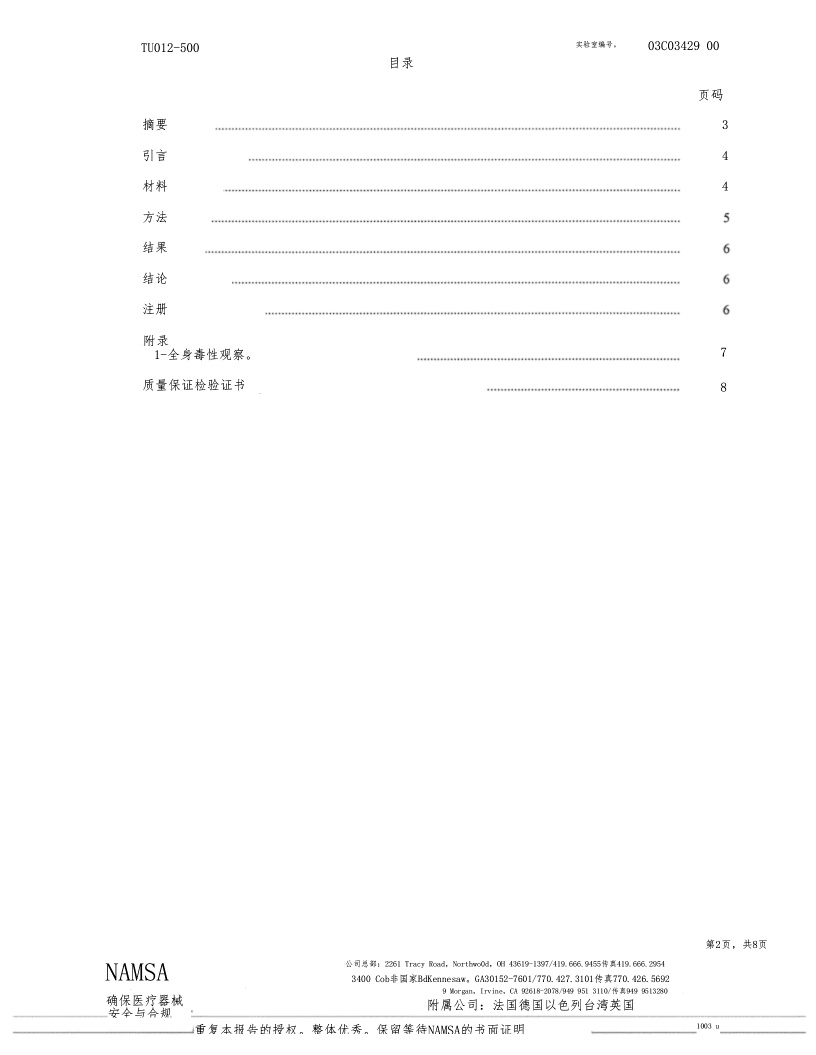
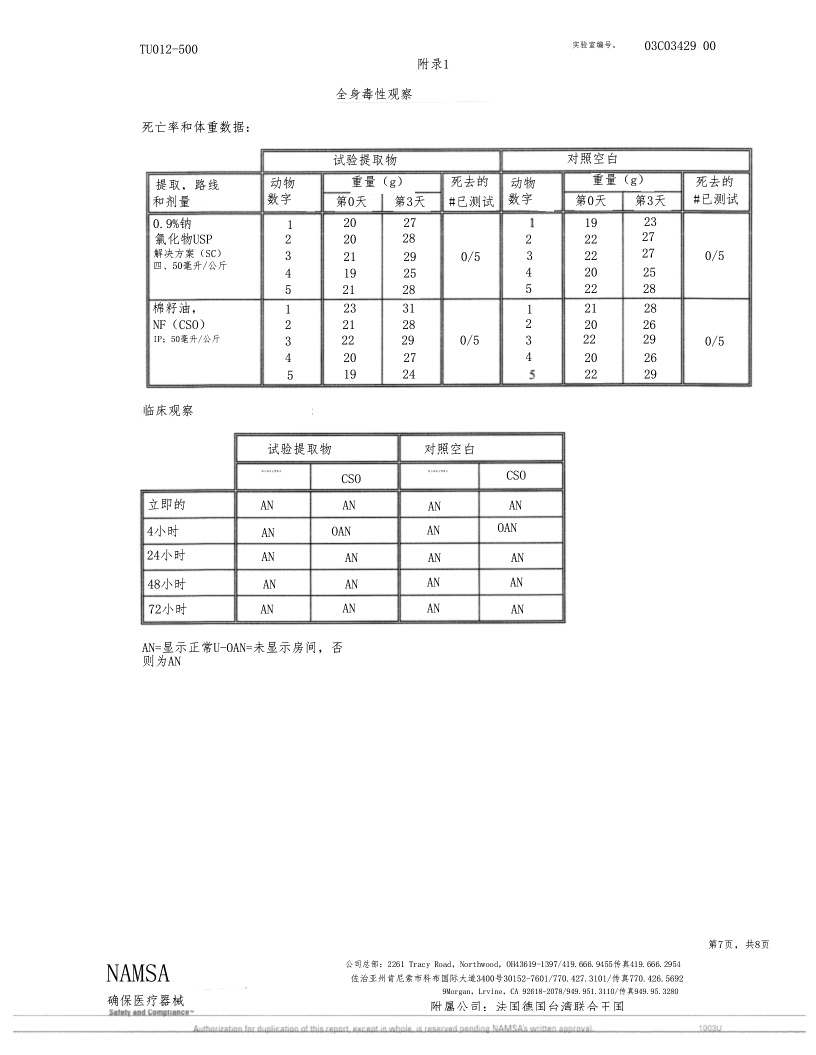
增加了全片文章识别的百度翻译，解决了过度HTTP调用导致接口被ban的情况

diff --git a/ver2.0.py b/ver2.0.py
@@ -6,18 +6,19 @@ import string
 import numpy as np
 from PIL import Image, ImageDraw, ImageFont, ImageEnhance
 from paddleocr import PaddleOCR
-from utils import pyMuPDF_fitz, get_merged_pdf,del_dir
+from utils import pyMuPDF_fitz, get_merged_pdf,del_dir, baidu_translator
 
 from multiprocessing import freeze_support
-import translators as ts
+# import translators as ts
 import cv2
 import layoutparser as lp
 import pandas as pd
 
+
 # 定义全局变量
 image_width = 0  # 待处理图片宽度
 image_height = 0  # 待处理图片高度
-text_size_ocr = 16  # 标准字体大小
+text_size_ocr = 17  # 标准字体大小
 origin_text_list = []
 translated_text_list = []
 
@@ -124,6 +125,8 @@ def draw_ocr_box_txt_one_pic(image,
     # 新建一张白色的图
     img_right = np.ones((h, w, 3), dtype=np.uint8) * 255  # 初始化一个同样大小的图片
     random.seed(0)
+    origin_result = '' # 存储源翻译文本
+    trans_result = None # 存储翻译结果的字典
 
     # ImageDraw模块提供了图像对象的简单2D绘制。用户可以使用这个模块创建新的图像，注释或润饰已存在图像，为web应用实时产生各种图形。 Draw()创建一个可以在给定图像上绘图的对象。
     # img_left_array = np.array(img_left)  # 分支一
@@ -163,7 +166,20 @@ def draw_ocr_box_txt_one_pic(image,
             # 需要在Ocrlist里面push其内部的OCR
             for ocr in layout.ocr_box_list:
                 ocr_list.append(ocr)
-        # 得到的layout_list_temp[] 用于文本段的绘制 和 ocr_list，用于剩下需要单独绘制的OCR
+    # 得到的layout_list_temp[] 用于文本段的绘制 和 ocr_list，用于剩下需要单独绘制的OCR
+    # 此处需要对ocr_list 和layout_list_temp[]集中处理
+    # TODO : 将每一句txt进行以'\n'的打包，传入baidu翻译进行通篇翻译，返回dict结果存在trans_result[]里面
+    index = 0
+    for o in ocr_list:
+        origin_result += o.txt + '\n'
+        index+=1
+    for layout_t in layout_list_temp:
+        origin_result += layout_t.txt + '\n'
+        # print('这是txt中的内容：'+layout_t.txt)
+
+    trans_result = baidu_translator(text=origin_result)
+    # for p in trans_result:
+    #     print('翻译：'+str(p['src']))
     # 填涂背景与OCR的书写
     for idx, (box, txt) in enumerate(zip(boxes, txts)):
         if scores is not None and scores[idx] < drop_score:  # 过滤准确度低的文本信息
@@ -189,6 +205,11 @@ def draw_ocr_box_txt_one_pic(image,
             # 如果在，则正常绘制
             if (ocr.box[0] == box_reg[0]) and (ocr.box[1] == box_reg[2]):
                 # 填字的时候仍然使用的是曲边box
+                # TODO 此处要对txt进行筛选
+                for re in trans_result:
+                    if re['src'] == txt:
+                        txt = re['dst'] # 此处进行文本替换
+                        break
                 img_right_text = draw_box_txt_fine((w, h), txt, font_path, 'cn', box=box)  # 返回的是一个个包含文本信息的图片，整张图片的相对位置
                 # 此处进行对修改后的副本经行文字融合
                 img_right = cv2.bitwise_and(img_right, img_right_text)  # 右图位图迭代合并拼接
@@ -196,6 +217,10 @@ def draw_ocr_box_txt_one_pic(image,
     for layout in layout_list_temp:
         width = layout.Bbox[2] - layout.Bbox[0]
         height = layout.Bbox[3] - layout.Bbox[1]
+        layout.txt = trans_result[index]['dst']
+        index += 1 # 此处写法不规范，容易造成数组溢出
+
+        # print("这是laoyout文本"+ layout.txt)
         img_right_text = draw_box_txt_fine((w, h), layout.txt, font_path, 'cn', is_multiline=True,
                                            multi_box=(
                                                layout.Bbox[0], layout.Bbox[1], width,
@@ -359,7 +384,9 @@ def address_font(txt):
     if is_num:
         txt = txt
     else:
-        txt = ts.translate_text(txt, to_language='cn',translator='baidu')  # 段落翻译，并不是整体翻译
+        # txt = ts.translate_text(txt, to_language='cn',translator='baidu')  # 段落翻译，并不是整体翻译
+        txt = txt
+        pass
 
     return txt
 
@@ -375,8 +402,10 @@ def create_font(txt, sz, font_path="./fonts/simfang.ttf", is_multiline=False):  
         font_size = round(sz[1] * 0.85)
         # 对字体大小进行量化
         font_size = font_size - (font_size % 3)  # 3倍量化
-        if 10 < font_size < 36:
+        if 1 < font_size < 36:
             font_size = text_size_ocr
+        elif font_size >= 36:
+            font_size = 36 # 设置最大字体
         font = ImageFont.truetype(font_path, font_size, encoding="utf-8")
         length = font.getlength(txt)
     first_line = True
@@ -401,7 +430,7 @@ def create_font(txt, sz, font_path="./fonts/simfang.ttf", is_multiline=False):  
             txt = temp[:int(sz[0]) // font_size] # 此处有问题，需要返回被省略的标准函数
             alpha_temp = str_count(txt)[1]
             # 此处重新调整换行判断
-            if alpha_temp > 2:
+            if alpha_temp >= 1:
                 idx = (int(sz[0]) // font_size) + alpha_temp
                 txt = temp[:idx]
                 space_txt += txt + '\n'
@@ -486,6 +515,7 @@ def resize_keep_aspectratio(image_src, dst_size):
 
 if __name__ == '__main__':
     freeze_support()  # 异步线程可能会报RUntime Error
+    # ssl._create_default_https_context = ssl._create_unverified_context
     # Paddleocr目前支持的多语言语种可以通过修改lang参数进行切换
     # 例如`ch`, `en`, `fr`, `german`, `korean`, `japan`
 
@@ -512,7 +542,7 @@ if __name__ == '__main__':
     file_resize_path = 'D:/testPics/OCR_translated_resize/'
     save_folder = 'D:/testPics/OCR_translated'
     font_path = './fonts/simfang.ttf'  # PaddleOCR下提供字体包
-    pdfPath = 'D:/testPics/原文档.pdf' # 唯一需要改动的路径。只要保持D盘文
+    pdfPath = 'D:/testPics/dataset/中英文对照文本/CL715 化学品符合性声明/CL715 Chemical Declaration of Conformity.pdf' # 唯一需要改动的路径。只要保持D盘文
 
     # PDF转图片
     del_dir(file_path)
@@ -572,8 +602,8 @@ if __name__ == '__main__':
         txts = [line[1][0] for line in result[0]]
         scores = [line[1][1] for line in result[0]]
 
-        im_show = draw_ocr_box_txt_one_pic(image, boxes, txts, text_blocks, scores, drop_score=0.85,
-                                           font_path=font_path)
+        im_show = draw_ocr_box_txt_one_pic(image, boxes, txts, text_blocks, scores, drop_score=0.90,
+                                           font_path=font_path) # 此处确定置信度区间为0.85
         # im_show.show()
         # 保存
         path = save_folder + '/' + pic

diff --git a/utils.py b/utils.py
@@ -7,6 +7,10 @@ import os
 import glob
 import fitz
 import PyPDF2
+import requests
+import random
+import json
+from hashlib import md5
 
 # 防止字符串乱码
 os.environ['NLS_LANG'] = 'SIMPLIFIED CHINESE_CHINA.UTF8'
@@ -237,9 +241,11 @@ def get_merged_pdf(imgs_path):
 
     # 将pdf合并成一个pdf
     pdf_names_list = os.listdir(save_pdf_path)
+    pdf_names_list.sort(key=lambda x: int(x[7:-4]))  # 经行排序排序(image_xx.pdf)
     pdf_writer = PyPDF2.PdfWriter()
     for pdf_n in pdf_names_list:
         pdf_p = os.path.join(save_pdf_path, pdf_n)
+        # print(pdf_n)
         pdf_obj = open(pdf_p, 'rb')
         pdf_reader = PyPDF2.PdfReader(pdf_obj)
         for page in range(len(pdf_reader.pages)):
@@ -274,6 +280,7 @@ def pyMuPDF_fitz(pdfPath, imagePath):
     endTime_pdf2img = datetime.datetime.now()  # 结束时间
     # print('pdf2img时间=', (endTime_pdf2img - startTime_pdf2img).seconds)
 
+
 def del_dir(dir):  # 注意要加上'/'
     if not os.path.exists(dir):
         return False
@@ -287,6 +294,41 @@ def del_dir(dir):  # 注意要加上'/'
         else:
             os.unlink(t)
         # os.rmdir(dir)  # 递归删除目录下面的空文件夹
+
+
+# 百度翻译
+def baidu_translator(text='', from_lang='en', to_lang='zh'):
+    # Set your own appid/appkey.
+    appid = '20240628002087171'
+    appkey = 'uN9S5RZGcBZFjgCmmiYg'
+
+    # For list of language codes, please refer to `https://api.fanyi.baidu.com/doc/21`
+    from_lang = from_lang
+    to_lang = to_lang
+    query = text
+
+    endpoint = 'http://api.fanyi.baidu.com'
+    path = '/api/trans/vip/translate'
+    url = endpoint + path
+
+    # Generate salt and sign
+    def make_md5(s, encoding='utf-8'):
+        return md5(s.encode(encoding)).hexdigest()
+
+    salt = random.randint(32768, 65536)
+    sign = make_md5(appid + query + str(salt) + appkey)
+
+    # Build request
+    headers = {'Content-Type': 'application/x-www-form-urlencoded'}
+    payload = {'appid': appid, 'q': query, 'from': from_lang, 'to': to_lang, 'salt': salt, 'sign': sign}
+    # Send request
+    r = requests.post(url, params=payload, headers=headers)
+    result = r.json()  # json file
+    # print(result['trans_result'])
+    # for p in result['trans_result']:
+    #     print(str(p['dst']))
+    return result['trans_result']
+
 
 if __name__ == "__main__":
     # 1、PDF地址

diff --git a/bug_test.py b/bug_test.py
@@ -1,0 +1,40 @@
+import requests
+import random
+import json
+from hashlib import md5
+
+
+def baidu_translator(text='', from_lang='en', to_lang='zh'):
+    # Set your own appid/appkey.
+    appid = '20240628002087171'
+    appkey = 'uN9S5RZGcBZFjgCmmiYg'
+
+    # For list of language codes, please refer to `https://api.fanyi.baidu.com/doc/21`
+    from_lang = 'en'
+    to_lang = 'zh'
+    query = 'Hello World! This is 1st paragraph.\nThis is 2nd paragraph.\n'
+
+    endpoint = 'http://api.fanyi.baidu.com'
+    path = '/api/trans/vip/translate'
+    url = endpoint + path
+
+    # Generate salt and sign
+    def make_md5(s, encoding='utf-8'):
+        return md5(s.encode(encoding)).hexdigest()
+
+    salt = random.randint(32768, 65536)
+    sign = make_md5(appid + query + str(salt) + appkey)
+
+    # Build request
+    headers = {'Content-Type': 'application/x-www-form-urlencoded'}
+    payload = {'appid': appid, 'q': query, 'from': from_lang, 'to': to_lang, 'salt': salt, 'sign': sign}
+    # Send request
+    r = requests.post(url, params=payload, headers=headers)
+    result = r.json()  # json file
+    # print(result['trans_result'])
+    for p in result['trans_result']:
+        print(str(p['dst']))
+    return result['trans_result']
+
+# Show response
+# print(json.dumps(result, indent=4, ensure_ascii=False))

diff --git a/translate/__init__.py b/translate/__init__.py
@@ -1,6 +1,6 @@
 from .google import translate as gtranslate
 from .deepL import DeepLTranslator as dtranslate
-import translators as ts
+# import translators as ts
 
 
 __all__ = ['translate', 'change_translate_mod'] # 导入的方法
@@ -32,8 +32,8 @@ def translate(text='', to_language="zh-CN", from_language="auto", in_mod=0):
             to_language = 'zh'
         if mod == 1:
             # 次数使用translator作为翻译
-            # return dtranslate(translate_str=text, target_lang=to_language, translate_mode='word').translate()['result']
-            return ts.translate_text(text, translator='bing', to_language='ch')
+            return dtranslate(translate_str=text, target_lang=to_language, translate_mode='word').translate()['result']
+            # return ts.translate_text(text, translator='bing', to_language='ch')
         elif mod == 2:
             return dtranslate(translate_str=text, target_lang=to_language, translate_mode='sentences').translate()[
                 'result']

diff --git a/main.py b/main.py
@@ -17,6 +17,7 @@ from paddleocr import PaddleOCR
 from translate import translate, change_translate_mod
 from covermaker import conf, render
 from inpainting import Inpainting
+
 from interface import Ui_MainWindow
 from characterStyle import Ui_Dialog as CharacterStyleDialog
 from textblockdetector import dispatch as textblockdetector
